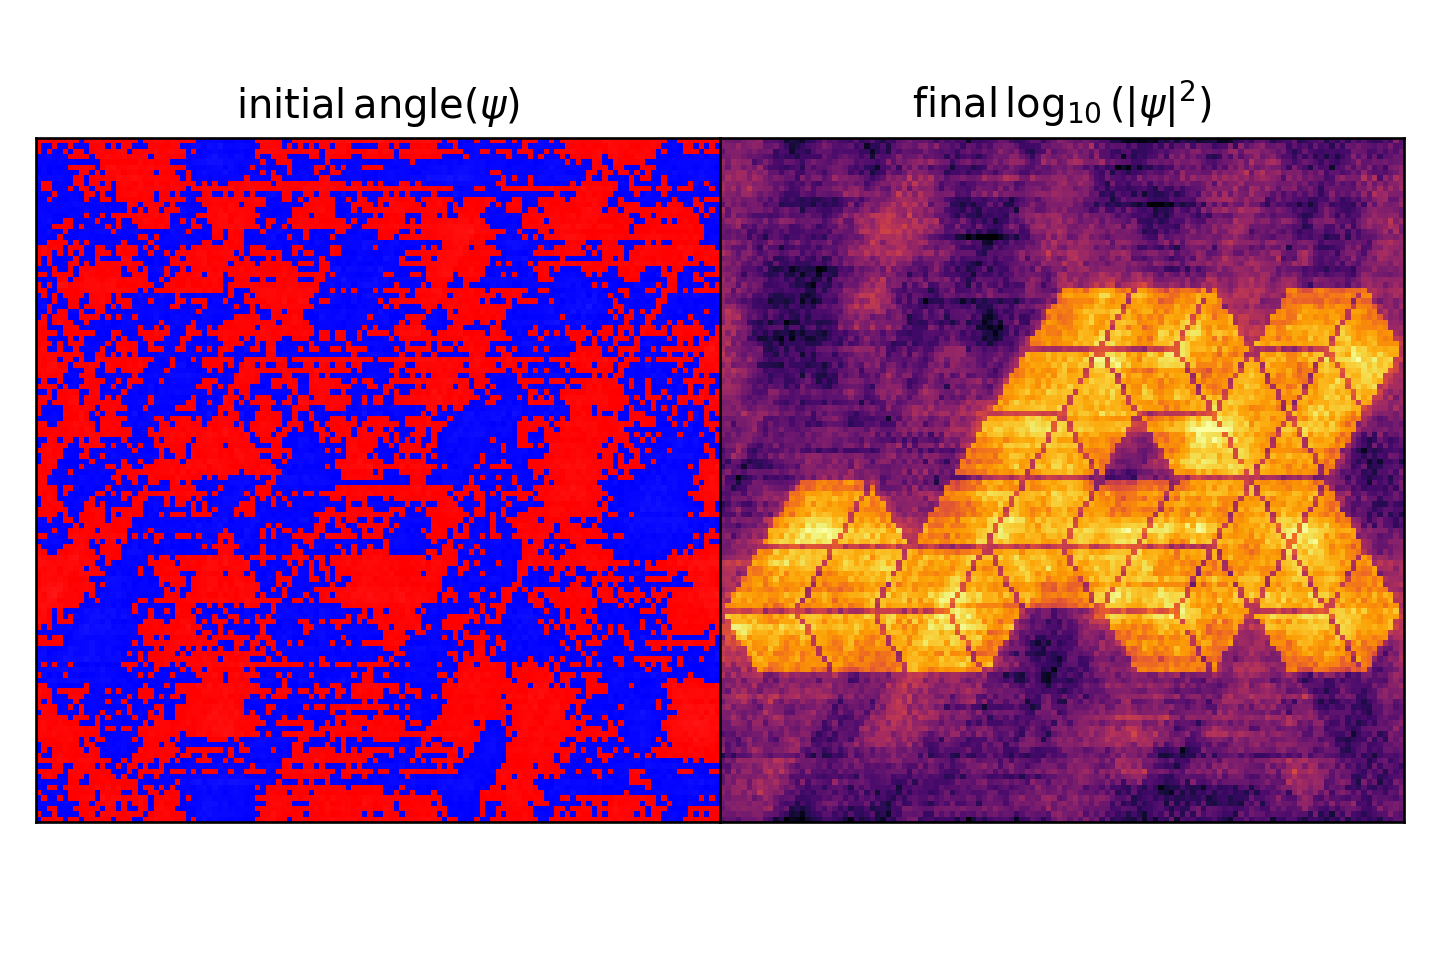
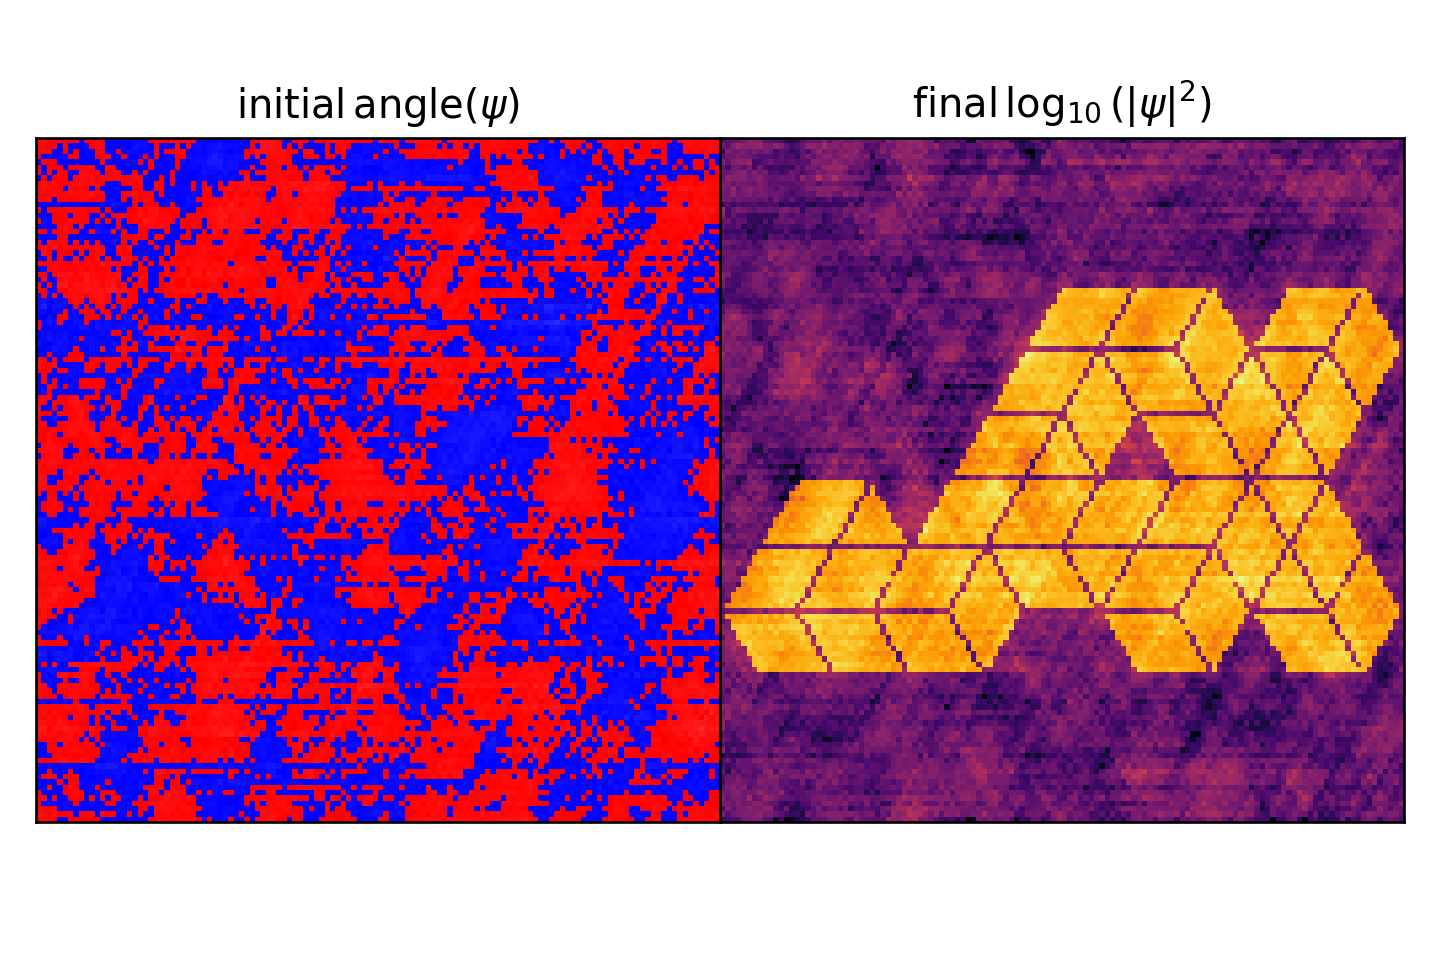
make simulation more modular, pre-compute potential. changes SP test time from 3 s to 5 s due to more iterations

Changed region(s): [[0.0, 0.125, 1.0, 0.875], [0.0312, 0.625, 0.0625, 0.6562]]

diff --git a/adirondax/simulation.py b/adirondax/simulation.py
@@ -3,7 +3,10 @@ import jax.numpy as jnp
 from functools import partial
 import copy
 
-from .hydro import get_conserved, update_hydro
+from .constants import constants
+from .hydro import update_hydro
+from .quantum import quantum_kick, quantum_drift
+from .gravity import calculate_gravitational_potential
 
 
 class Simulation:
@@ -43,13 +46,18 @@ class Simulation:
         # simulation state
         self.state = {}
         self.state["t"] = 0.0
-        if params["physics"]["hydrodynamic"]:
+        if params["physics"]["hydro"]:
             self.state["rho"] = jnp.zeros((self._nx, self._ny))
             self.state["vx"] = jnp.zeros((self._nx, self._ny))
             self.state["vy"] = jnp.zeros((self._nx, self._ny))
             self.state["P"] = jnp.zeros((self._nx, self._ny))
         if params["physics"]["quantum"]:
             self.state["psi"] = jnp.zeros((self._nx, self._ny), dtype=jnp.complex64)
+
+        # internal simulation state -- should not be touched by user!
+        self._internal = {}
+        if params["physics"]["gravity"]:
+            self._internal["V"] = jnp.zeros((self._nx, self._ny))
 
     @property
     def nt(self):
@@ -76,8 +84,33 @@ class Simulation:
         X, Y = jnp.meshgrid(xlin, ylin, indexing="ij")
         return X, Y
 
+    @property
+    def fourier(self):
+        n = self._nx
+        L = self._Lx
+        klin = 2.0 * jnp.pi / L * jnp.arange(-n / 2, n / 2)
+        kx, ky = jnp.meshgrid(klin, klin)
+        kx = jnp.fft.ifftshift(kx)
+        ky = jnp.fft.ifftshift(ky)
+        return kx, ky
+
+    def _calc_grav_potential(self, state, kSq):
+        G = 4000.0  # XXX
+        rho_tot = 0.0
+        if self.params["physics"]["quantum"]:
+            rho_tot += jnp.abs(state["psi"]) ** 2
+        if self.params["physics"]["hydro"]:
+            rho_tot += state["rho"]
+        return calculate_gravitational_potential(rho_tot, G, kSq)
+
+    @property
+    def potential(self):
+        kx, ky = self.fourier
+        kSq = kx**2 + ky**2
+        return self._calc_grav_potential(self.state, kSq)
+
     @partial(jax.jit, static_argnames=["self"])
-    def evolve(self, state):
+    def _evolve(self, state):
         """
         This function evolves the simulation state according to the simulation parameters/physics.
 
@@ -88,50 +121,42 @@ class Simulation:
 
         Returns
         -------
-        psi: jax.pytree
+        state: jax.pytree
           The evolved state of the simulation.
         """
 
         # Simulation parameters
-        n = self._nx
         dt = self._dt
         nt = self._nt
-        G = 4000.0  # gravitational constant
-        L = 1.0  # domain size
-        gamma = 5.0 / 3.0  # adiabatic index
+        dx = self._dx
         vol = self._vol
         courant_fac = 0.4
-        dx = self._dx
+        if self.params["physics"]["hydro"]:
+            gamma = self.params["hydro"]["eos"]["gamma"]
 
         # Fourier space variables
-        klin = 2.0 * jnp.pi / L * jnp.arange(-n / 2, n / 2)
-        kx, ky = jnp.meshgrid(klin, klin)
-        kx = jnp.fft.ifftshift(kx)
-        ky = jnp.fft.ifftshift(ky)
-        kSq = kx**2 + ky**2
+        if self.params["physics"]["gravity"] or self.params["physics"]["quantum"]:
+            kx, ky = self.fourier
+            kSq = kx**2 + ky**2
+
+        # initialize potential
+        if self.params["physics"]["gravity"]:
+            self._internal["V"] = self._calc_grav_potential(state, kSq)
 
         def update(i, state):
 
-            # TODO: move these to separate functions
+            # Update the simulation state by one timestep
+            # according to a 2nd-order `kick-drift-kick` scheme
+    
+            # Kick (half-step)
+            if self.params["physics"]["quantum"] and self.params["physics"]["gravity"]:
+                state["psi"] = quantum_kick(state["psi"], self._internal["V"], dt / 2.0)
 
+            # Drift (full-step)
             if self.params["physics"]["quantum"]:
+                state["psi"] = quantum_drift(state["psi"], kSq, dt)
 
-                # drift
-                psi = state["psi"]
-                psihat = jnp.fft.fftn(psi)
-                psihat = jnp.exp(dt * (-1.0j * kSq / 2.0)) * psihat
-                psi = jnp.fft.ifftn(psihat)
-
-                # update potential
-                Vhat = -jnp.fft.fftn(4.0 * jnp.pi * G * (jnp.abs(psi) ** 2 - 1.0)) / (
-                    kSq + (kSq == 0)
-                )
-                V = jnp.real(jnp.fft.ifftn(Vhat))
-
-                # kick
-                state["psi"] = jnp.exp(-1.0j * dt * V) * psi
-
-            if self.params["physics"]["hydrodynamic"]:
+            if self.params["physics"]["hydro"]:
                 (
                     state["rho"],
                     state["vx"],
@@ -148,6 +173,14 @@ class Simulation:
                     dt,
                 )
 
+            # update potential
+            if self.params["physics"]["gravity"]:
+                self._internal["V"] = self._calc_grav_potential(state, kSq)
+
+            # Kick (half-step)
+            if self.params["physics"]["quantum"] and self.params["physics"]["gravity"]:
+                state["psi"] = quantum_kick(state["psi"], self._internal["V"], dt / 2.0)
+
             # update time
             state["t"] += nt * dt
 
@@ -157,3 +190,7 @@ class Simulation:
         state = jax.lax.fori_loop(0, nt, update, init_val=state)
 
         return state
+
+    def run(self):
+        self.state = self._evolve(self.state)
+        jax.block_until_ready(self.state)

diff --git a/examples/schrodinger_poisson/schrodinger_poisson.py b/examples/schrodinger_poisson/schrodinger_poisson.py
@@ -30,7 +30,7 @@ def setup_simulation():
 
     params = {
         "physics": {
-            "hydrodynamic": False,
+            "hydro": False,
             "magnetic": False,
             "quantum": True,
             "gravity": True,
@@ -69,12 +69,12 @@ def solve_inverse_problem(sim):
     def loss_function(theta, rho_target):
         sim.state["t"] = 0.0
         sim.state["psi"] = jnp.exp(1.0j * theta)
-        sim.state = sim.evolve(sim.state)
+        sim.run()
         psi = sim.state["psi"]
         rho = jnp.abs(psi) ** 2
         return jnp.mean((rho - rho_target) ** 2)
 
-    # Solve the inverse-problem (takes around 3 seconds on my macbook)
+    # Solve the inverse-problem (takes around 5 seconds on my macbook)
     opt = ScipyMinimize(
         method="l-bfgs-b", fun=loss_function, tol=1e-5, options={"disp": True}
     )
@@ -93,11 +93,10 @@ def rerun_simulation(sim, theta):
     # Re-run the simulation with the optimal initial conditions
     sim.state["t"] = 0.0
     sim.state["psi"] = jnp.exp(1.0j * theta)
-    sim.state = sim.evolve(sim.state)
-    psi = sim.state["psi"]
+    sim.run()
     print("Final time:", sim.state["t"])
 
-    return psi
+    return sim.state["psi"]
 
 
 def make_plot(psi, theta):

diff --git a/examples/euler/euler.py b/examples/euler/euler.py
@@ -27,7 +27,7 @@ def setup_simulation():
 
     params = {
         "physics": {
-            "hydrodynamic": True,
+            "hydro": True,
             "magnetic": False,
             "quantum": False,
             "gravity": False,
@@ -42,13 +42,16 @@ def setup_simulation():
             "timestep": dt,
             "n_timestep": nt,
         },
+        "hydro": {
+            "eos": {"type": "ideal", "gamma": 5.0 / 3.0},
+        },
     }
 
     # Initialize the simulation
     sim = adx.Simulation(params)
 
     # Set initial conditions
-    # opposite moving streams with perturbation
+    # (opposite moving streams with perturbation)
     sim.state["t"] = 0.0
     X, Y = sim.mesh
     w0 = 0.1
@@ -83,10 +86,9 @@ def main():
 
     sim = setup_simulation()
 
-    # evolve the system (takes around 9 seconds on my macbook)
+    # Evolve the system (takes around 9 seconds on my macbook)
     t0 = time.time()
-    sim.state = sim.evolve(sim.state)
-    jax.block_until_ready(sim.state)
+    sim.run()
     print("Solve time (s): ", time.time() - t0)
 
     make_plot(sim)

diff --git a/adirondax/constants.py b/adirondax/constants.py
@@ -1,0 +1,18 @@
+# Physical Constants (cgs)
+
+constants = {
+    "speed_of_light": 2.998e10,  # cm/s
+    "gravitational_constant": 6.6743e-8,  # cm^3 g^-1 s^-2
+    "planck_constant": 6.6261e-27,  # erg s
+    "boltzmann_constant": 1.380649e-16,  # erg K^-1
+    "electron_charge": 4.8032e-10,  # statC
+    "electron_mass": 9.1094e-28,  # g
+    "proton_mass": 1.6726e-24,  # g
+    "neutron_mass": 1.6749e-24,  # g
+    "atomic_mass_unit": 1.6605e-24,  # g
+    "stefan_boltzmann_constant": 5.6704e-5,  # erg cm^-2 s^-1 K^-4
+    "avogadro_number": 6.02214076e23,  # mol^-1
+    "gas_constant": 8.3145,  # J mol^-1 K^-1
+    "faraday_constant": 96485.3321,  # C mol^-1
+    "rydberg_constant": 1.09737316e5,  # cm^-1
+}

diff --git a/adirondax/quantum.py b/adirondax/quantum.py
@@ -1,0 +1,16 @@
+import jax
+import jax.numpy as jnp
+
+# Pure functions for quantum simulation
+
+
+@jax.jit
+def quantum_kick(psi, V, dt):
+    return jnp.exp(-1.0j * dt * V) * psi
+
+
+@jax.jit
+def quantum_drift(psi, kSq, dt):
+    psihat = jnp.fft.fftn(psi)
+    psihat = jnp.exp(dt * (-1.0j * kSq / 2.0)) * psihat
+    return jnp.fft.ifftn(psihat)

diff --git a/adirondax/gravity.py b/adirondax/gravity.py
@@ -1,0 +1,11 @@
+import jax
+import jax.numpy as jnp
+
+# Pure functions for gravity calculations
+
+
+@jax.jit
+def calculate_gravitational_potential(rho, G, kSq):
+    rho_bar = jnp.mean(rho)
+    Vhat = -jnp.fft.fftn(4.0 * jnp.pi * G * (rho - rho_bar)) / (kSq + (kSq == 0))
+    return jnp.real(jnp.fft.ifftn(Vhat))

diff --git a/benchmarks/benchmarks/bench_inverse_problem.py b/benchmarks/benchmarks/bench_inverse_problem.py
@@ -29,7 +29,7 @@ class InverseProblemSuite:
         dt = t_stop / nt
         self.params = {
             "physics": {
-                "hydrodynamic": False,
+                "hydro": False,
                 "magnetic": False,
                 "quantum": True,
                 "gravity": True,

diff --git a/tests/test_inverse_problem.py b/tests/test_inverse_problem.py
@@ -25,7 +25,7 @@ def set_up_params():
     dt = t_stop / nt
     params = {
         "physics": {
-            "hydrodynamic": False,
+            "hydro": False,
             "magnetic": False,
             "quantum": True,
             "gravity": True,
